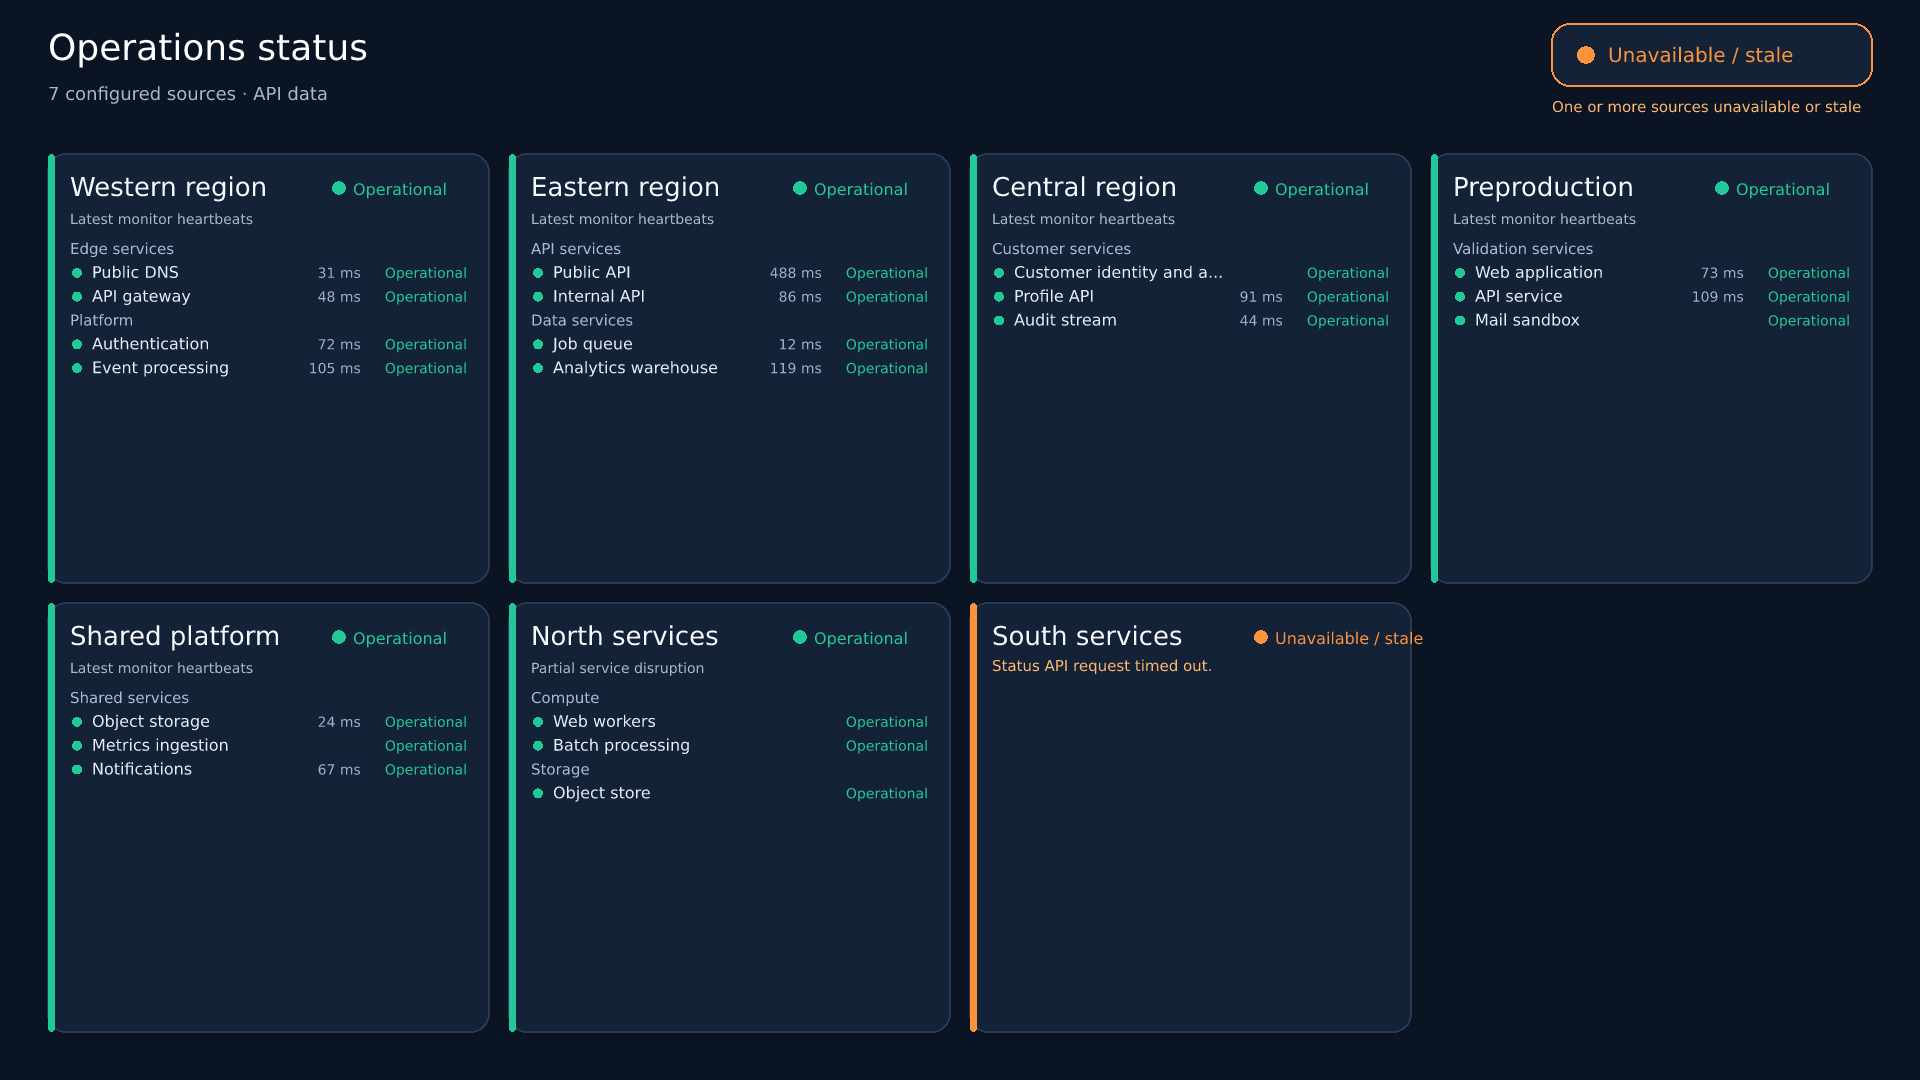
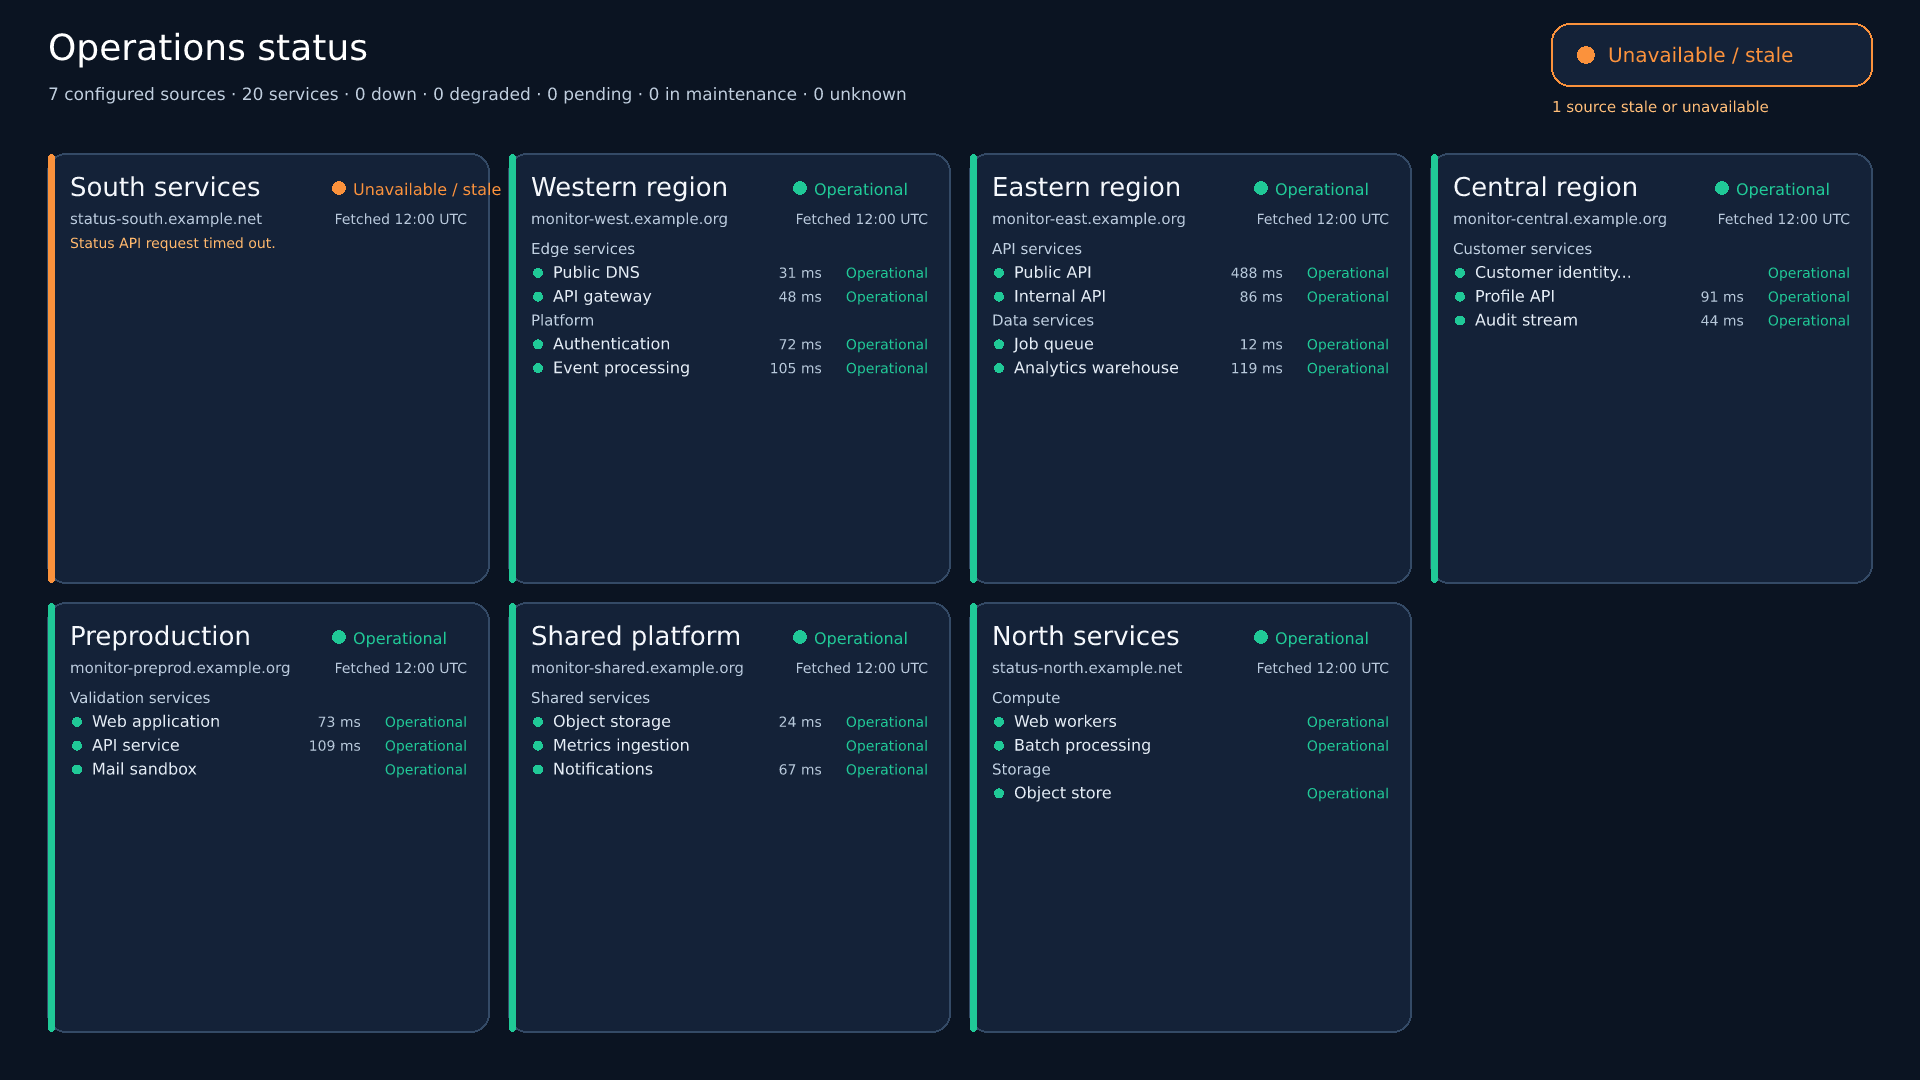
Improve captured API status dashboard UI

diff --git a/workers/device-sync/src/api-dashboard/render.ts b/workers/device-sync/src/api-dashboard/render.ts
@@ -1,5 +1,6 @@
 import { Resvg, initWasm } from "@resvg/resvg-wasm";
 import { healthLabel, overallHealth, type DashboardSource, type Health } from "./model.ts";
+import { svgPanel, svgServiceRow, svgStatusBadge, svgStatusDot, svgText, truncateText } from "./render-components.ts";
 
 const MAX_PIXELS = 3840 * 2160;
 const MAX_PNG_BYTES = 32 * 1024 * 1024;
@@ -9,8 +10,15 @@ const colors: Record<Health, string> = {
   pending: "#60a5fa", unknown: "#94a3b8", stale: "#fb923c",
 };
 
-function esc(text: string) { return text.replace(/[&<>"']/g, (char) => ({ "&": "&amp;", "<": "&lt;", ">": "&gt;", '"': "&quot;", "'": "&apos;" })[char]!); }
-function short(text: string, max: number) { return text.length > max ? `${text.slice(0, Math.max(0, max - 3))}...` : text; }
+function healthOrder(health: Health): number {
+  return ({ down: 0, degraded: 1, stale: 2, pending: 3, unknown: 4, maintenance: 5, operational: 6 })[health];
+}
+
+function formatFetched(value: string): string | undefined {
+  const date = new Date(value);
+  if (!Number.isFinite(date.getTime())) return undefined;
+  return `Fetched ${date.toISOString().slice(11, 16)} UTC`;
+}
 
 function sourceHealth(source: DashboardSource): Health {
   if (source.disabled) return "unknown";
@@ -31,7 +39,7 @@ function card(source: DashboardSource, x: number, y: number, width: number, heig
   const pad = s(22);
   const left = x + pad;
   const compact = height < s(170);
-  const contentY = y + s(compact ? 0 : 100);
+  const contentY = y + s(compact ? 0 : source.error ? 120 : 100);
   const lineH = s(compact ? 18 : Math.max(20, Math.min(24, height / 18)));
   const parentGroups = (source.groups ?? source.components.filter((component) => component.isGroup).map((component) => ({ id: component.id, name: component.name, order: component.groupOrder ?? component.componentOrder ?? 0 })))
     .sort((a, b) => a.order - b.order);
@@ -41,14 +49,14 @@ function card(source: DashboardSource, x: number, y: number, width: number, heig
   if (parentGroups.length) {
     for (const parent of parentGroups) {
       const children = services.filter((component) => component.groupId === parent.id || (!component.groupId && component.groupName === parent.name))
-        .sort((a, b) => (a.componentOrder ?? 0) - (b.componentOrder ?? 0));
+        .sort((a, b) => healthOrder(a.status) - healthOrder(b.status) || (a.componentOrder ?? 0) - (b.componentOrder ?? 0));
       serviceRows.push({ kind: "group", name: parent.name });
       if (!children.length) serviceRows.push({ kind: "empty", name: parent.name });
       for (const component of children) { serviceRows.push({ kind: "service", component }); seenServices.add(component.id); }
     }
   }
   const remaining = services.filter((component) => !seenServices.has(component.id))
-    .sort((a, b) => (a.groupOrder ?? 0) - (b.groupOrder ?? 0) || (a.componentOrder ?? 0) - (b.componentOrder ?? 0));
+    .sort((a, b) => (a.groupOrder ?? 0) - (b.groupOrder ?? 0) || healthOrder(a.status) - healthOrder(b.status) || (a.componentOrder ?? 0) - (b.componentOrder ?? 0));
   const groups = new Map<string, typeof remaining>();
   for (const component of remaining) {
     const name = component.groupName ?? "Services";
@@ -61,28 +69,30 @@ function card(source: DashboardSource, x: number, y: number, width: number, heig
   }
   const events = [...source.incidents.map((item) => `Incident (${item.status}, ${item.impact}): ${item.name}`), ...source.maintenance.map((item) => `Maintenance (${item.status}): ${item.name}`)];
   const footerRows = (serviceRows.some((row) => row.kind === "service" || row.kind === "empty") ? 1 : 0) + (events.length ? 1 : 0);
-  const maxLines = Math.max(0, Math.floor((height - s(compact ? 58 : 150) - s(footerRows * 20)) / lineH));
+  const maxLines = Math.max(0, Math.floor((height - s(compact ? 58 : source.error ? 170 : 150) - s(footerRows * 20)) / lineH));
   const showRows = serviceRows.slice(0, maxLines);
   while (showRows.at(-1)?.kind === "group") showRows.pop();
   const visibleServices = showRows.filter((row) => row.kind === "service").length;
   const hiddenServices = Math.max(0, services.length - visibleServices);
   const hiddenGroups = Math.max(0, serviceRows.filter((row) => row.kind === "group").length - showRows.filter((row) => row.kind === "group").length);
-  let svg = `<g><rect x="${x}" y="${y}" width="${width}" height="${height}" rx="${s(18)}" fill="#142238" stroke="#283951" stroke-width="${s(2)}"/>`;
-  svg += `<rect x="${x}" y="${y}" width="${s(7)}" height="${height}" rx="${s(4)}" fill="${colors[health]}"/>`;
-  svg += `<text x="${left}" y="${y + s(compact ? 25 : 42)}" fill="#f5f8fc" font-size="${s(compact ? 17 : 26)}" font-weight="700">${esc(short(source.displayName, Math.floor((width - s(185)) / s(compact ? 10 : 17))))}</text>`;
-  svg += `<circle cx="${x + width - s(150)}" cy="${y + s(compact ? 20 : 34)}" r="${s(7)}" fill="${colors[health]}"/>`;
+  let svg = `<g>${svgPanel(x, y, width, height, scale, colors[health])}`;
+  svg += `<text x="${left}" y="${y + s(compact ? 25 : 42)}" fill="#f5f8fc" font-size="${s(compact ? 17 : 26)}" font-weight="700">${svgText(truncateText(source.displayName, Math.floor((width - s(185)) / s(compact ? 10 : 17))))}</text>`;
+  svg += svgStatusDot(x + width - s(150), y + s(compact ? 20 : 34), s(7), colors[health]);
   const sourceStatusLabel = source.disabled ? "Disabled" : healthLabel[health];
-  svg += `<text x="${x + width - s(136)}" y="${y + s(compact ? 26 : 41)}" fill="${colors[health]}" font-size="${s(compact ? 13 : 16)}">${esc(sourceStatusLabel)}</text>`;
+  svg += `<text x="${x + width - s(136)}" y="${y + s(compact ? 26 : 41)}" fill="${colors[health]}" font-size="${s(compact ? 13 : 16)}">${svgText(sourceStatusLabel)}</text>`;
   if (!compact) {
-    if (source.error) svg += `<text x="${left}" y="${y + s(68)}" fill="#ffb86c" font-size="${s(15)}">${esc(short(source.error, Math.floor(width / s(9))))}</text>`;
-    else svg += `<text x="${left}" y="${y + s(70)}" fill="#aab8ca" font-size="${s(14)}">${esc(short(source.statusDescription, Math.floor(width / s(9))))}</text>`;
+    const sourceIdentity = source.hostname ?? (source.provider === "uptime-kuma" ? "Uptime Kuma" : "Statuspage");
+    const updated = formatFetched(source.fetchedAt);
+    svg += `<text x="${left}" y="${y + s(70)}" fill="#b9c9dc" font-size="${s(15)}">${svgText(truncateText(sourceIdentity, Math.floor(width / s(10))))}</text>`;
+    if (updated) svg += `<text x="${x + width - pad}" y="${y + s(70)}" text-anchor="end" fill="#b9c9dc" font-size="${s(14)}">${svgText(updated)}</text>`;
+    if (source.error) svg += `<text x="${left}" y="${y + s(94)}" fill="#ffb86c" font-size="${s(14)}">${svgText(truncateText(source.error, Math.floor(width / s(9))))}</text>`;
   }
   if (source.disabled) svg += `<text x="${left}" y="${y + s(compact ? 48 : 106)}" fill="#aab8ca" font-size="${s(17)}">Source is disabled and not polled</text>`;
   else if (!services.length && !source.error && !parentGroups.length) svg += `<text x="${left}" y="${y + s(compact ? 48 : 106)}" fill="#aab8ca" font-size="${s(17)}">No component data available</text>`;
   showRows.forEach((row, index) => {
     const cy = contentY + index * lineH;
     if (row.kind === "group") {
-      svg += `<text x="${left}" y="${cy}" fill="#a9bdd4" font-size="${s(compact ? 12 : 15)}" font-weight="700">${esc(short(row.name, Math.floor(width / s(10))))}</text>`;
+      svg += `<text x="${left}" y="${cy}" fill="#c1d1e2" font-size="${s(compact ? 12 : 15)}" font-weight="700">${svgText(truncateText(row.name, Math.floor(width / s(10))))}</text>`;
       return;
     }
     if (row.kind === "empty") {
@@ -93,20 +103,16 @@ function card(source: DashboardSource, x: number, y: number, width: number, heig
     const color = colors[status as Health] ?? colors.unknown;
     const statusText = healthLabel[status as Health] ?? healthLabel.unknown;
     const right = x + width - pad;
-    const statusWidth = s(Math.min(statusText.length * (compact ? 6 : 8.2) + 8, width * .32));
-    svg += `<circle cx="${left + s(7)}" cy="${cy - s(5)}" r="${s(5)}" fill="${color}"/>`;
-    svg += `<text x="${left + s(22)}" y="${cy}" fill="#e5edf6" font-size="${s(compact ? 12 : 16)}">${esc(short(name, Math.max(8, Math.floor((width - s(220)) / s(8.5)))))}</text>`;
-    if (latencyMs !== undefined && !compact) svg += `<text x="${right - statusWidth - s(8)}" y="${cy}" text-anchor="end" fill="#9db0c5" font-size="${s(14)}">${esc(`${Math.round(latencyMs)} ms`)}</text>`;
-    svg += `<text x="${right}" y="${cy}" text-anchor="end" fill="${color}" font-size="${s(compact ? 11 : 14)}">${esc(statusText)}</text>`;
+    svg += svgServiceRow({ x: left, y: cy, right, scale, name, status: statusText, color, latencyMs, compact });
   });
   if (hiddenServices || hiddenGroups) {
     const message = [hiddenGroups ? `${hiddenGroups} more groups` : "", hiddenServices ? `${hiddenServices} more services` : ""].filter(Boolean).join(" · ");
-    svg += `<text x="${left}" y="${y + height - s(events.length ? 36 : 18)}" fill="#9db0c5" font-size="${s(compact ? 10 : 13)}">+ ${esc(message)}</text>`;
+    svg += `<text x="${left}" y="${y + height - s(events.length ? 36 : 18)}" fill="#b7c8da" font-size="${s(compact ? 10 : 13)}">+ ${svgText(message)}</text>`;
   }
   if (events.length) {
     const suffix = events.length > 1 ? ` · +${events.length - 1} more active events` : "";
-    const first = short(events[0], Math.max(8, Math.floor(width / s(compact ? 7 : 8)) - suffix.length));
-    svg += `<text x="${left}" y="${y + height - s(compact ? 8 : 18)}" fill="#ffc46b" font-size="${s(compact ? 10 : 13)}">${esc(first + suffix)}</text>`;
+    const first = truncateText(events[0], Math.max(8, Math.floor(width / s(compact ? 7 : 8)) - suffix.length));
+    svg += `<text x="${left}" y="${y + height - s(compact ? 8 : 18)}" fill="#ffd082" font-size="${s(compact ? 10 : 13)}">${svgText(first + suffix)}</text>`;
   }
   svg += "</g>";
   return svg;
@@ -120,19 +126,27 @@ export function dashboardSVG(sources: DashboardSource[], width = 1920, height = 
   const pad = 48 * scale;
   const gap = 20 * scale;
   const headerH = 154 * scale;
-  const columns = Math.min(4, Math.max(1, Math.floor((width - 2 * pad + gap) / 430)));
+  const columns = Math.min(sources.length || 1, 4, Math.max(1, Math.floor((width - 2 * pad + gap) / 430)));
   const cardW = (width - 2 * pad - gap * (columns - 1)) / columns;
   const rows = Math.ceil(sources.length / columns);
   const cardH = (height - headerH - pad - gap * Math.max(0, rows - 1)) / Math.max(rows, 1);
   const overall = overallHealth(sources);
-  const anyIssue = sources.some((source) => !source.disabled && source.freshness !== "fresh");
+  const activeSources = sources.filter((source) => !source.disabled);
+  const totalServices = activeSources.reduce((sum, source) => sum + source.components.filter((component) => !component.isGroup).length, 0);
+  const downServices = activeSources.reduce((sum, source) => sum + source.components.filter((component) => !component.isGroup && component.status === "down").length, 0);
+  const degradedServices = activeSources.reduce((sum, source) => sum + source.components.filter((component) => !component.isGroup && component.status === "degraded").length, 0);
+  const maintenanceServices = activeSources.reduce((sum, source) => sum + source.components.filter((component) => !component.isGroup && component.status === "maintenance").length, 0);
+  const pendingServices = activeSources.reduce((sum, source) => sum + source.components.filter((component) => !component.isGroup && component.status === "pending").length, 0);
+  const unknownServices = activeSources.reduce((sum, source) => sum + source.components.filter((component) => !component.isGroup && component.status === "unknown").length, 0);
+  const staleSources = activeSources.filter((source) => source.freshness !== "fresh").length;
   let svg = `<svg xmlns="http://www.w3.org/2000/svg" width="${width}" height="${height}" viewBox="0 0 ${width} ${height}"><rect width="100%" height="100%" fill="#0b1422"/>`;
   svg += `<text x="${pad}" y="${60 * scale}" fill="#ffffff" font-family="Ribbon Sans" font-size="${36 * scale}" font-weight="700">Operations status</text>`;
-  svg += `<text x="${pad}" y="${100 * scale}" fill="#a8b8cb" font-family="Ribbon Sans" font-size="${18 * scale}">${sources.length} configured sources · API data</text>`;
-  svg += `<rect x="${width - pad - 320 * scale}" y="${24 * scale}" width="${320 * scale}" height="${62 * scale}" rx="${18 * scale}" fill="#142238" stroke="${colors[overall]}" stroke-width="${2 * scale}"/>`;
-  svg += `<circle cx="${width - pad - 286 * scale}" cy="${55 * scale}" r="${9 * scale}" fill="${colors[overall]}"/><text x="${width - pad - 264 * scale}" y="${62 * scale}" fill="${colors[overall]}" font-family="Ribbon Sans" font-size="${20 * scale}" font-weight="700">${esc(healthLabel[overall])}</text>`;
-  if (anyIssue) svg += `<text x="${width - pad - 320 * scale}" y="${112 * scale}" fill="#ffb86c" font-family="Ribbon Sans" font-size="${15 * scale}">One or more sources unavailable or stale</text>`;
-  sources.forEach((source, index) => {
+  const summary = `${sources.length} configured ${sources.length === 1 ? "source" : "sources"} · ${totalServices} ${totalServices === 1 ? "service" : "services"} · ${downServices} down · ${degradedServices} degraded · ${pendingServices} pending · ${maintenanceServices} in maintenance · ${unknownServices} unknown`;
+  svg += `<text x="${pad}" y="${100 * scale}" fill="#c0cede" font-family="Ribbon Sans" font-size="${17 * scale}">${svgText(summary)}</text>`;
+  svg += svgStatusBadge(width - pad - 320 * scale, 24 * scale, 320 * scale, 62 * scale, scale, healthLabel[overall], colors[overall]);
+  if (staleSources) svg += `<text x="${width - pad - 320 * scale}" y="${112 * scale}" fill="#ffbd78" font-family="Ribbon Sans" font-size="${15 * scale}" font-weight="700">${staleSources} source${staleSources === 1 ? "" : "s"} stale or unavailable</text>`;
+  if (!sources.length) svg += `<text x="${pad}" y="${(headerH + 45 * scale)}" fill="#c0cede" font-family="Ribbon Sans" font-size="${20 * scale}">No status sources are configured.</text>`;
+  [...sources].sort((a, b) => healthOrder(sourceHealth(a)) - healthOrder(sourceHealth(b))).forEach((source, index) => {
     const col = index % columns;
     const row = Math.floor(index / columns);
     svg += card(source, pad + col * (cardW + gap), headerH + row * (cardH + gap), cardW, cardH, scale);

diff --git a/workers/device-sync/src/api-dashboard/render.test.ts b/workers/device-sync/src/api-dashboard/render.test.ts
@@ -1,6 +1,7 @@
 import assert from "node:assert/strict";
 import { test } from "node:test";
 import { dashboardSVG, renderDashboardPNG } from "./render.ts";
+import { svgPanel, svgServiceRow, svgStatusBadge, svgStatusDot, svgText, truncateText } from "./render-components.ts";
 import type { DashboardSource } from "./model.ts";
 
 const sample: DashboardSource = { id: "source-1", provider: "uptime-kuma", displayName: "<SCRIPT>alert('x')</SCRIPT>", fetchedAt: "2026-01-01T00:00:00.000Z", freshness: "fresh", status: "operational", statusDescription: "All systems operational", incidents: [], maintenance: [], components: [
@@ -56,9 +57,46 @@ test("provider group parents render as headings instead of duplicate monitored s
 
 test("long text uses supported ASCII ellipses rather than missing font glyphs", () => {
   const longName = { ...sample, displayName: "Synthetic source name with an intentionally long label", components: [{ ...sample.components[0], name: "Synthetic service name with many details that must be shortened to fit the screen" }] };
-  const svg = dashboardSVG([longName]);
+  const svg = dashboardSVG([longName, ...Array.from({ length: 6 }, (_, index) => ({ ...sample, id: `source-${index + 2}` }))]);
   assert.match(svg, /\.\.\./);
   assert.doesNotMatch(svg, /…/);
+});
+
+test("small source sets use wide cards and identify the Kuma instance and update time", () => {
+  const kuma: DashboardSource = {
+    ...sample,
+    displayName: "Operations status",
+    hostname: "monitor-west.example.org",
+    fetchedAt: "2026-01-01T12:34:00.000Z",
+  };
+  const svg = dashboardSVG([kuma, { ...kuma, id: "source-2", displayName: "Operations status", hostname: "monitor-east.example.org" }]);
+  const cards = [...svg.matchAll(/<rect x="([\d.]+)" y="([\d.]+)" width="([\d.]+)" height="([\d.]+)" rx="[\d.]+" fill="#142238" stroke="#344a66"/g)];
+  assert.equal(cards.length, 2);
+  assert.ok(Number(cards[0][3]) > 800, "two sources should use wide cards on a 1920px canvas");
+  assert.match(svg, /monitor-west\.example\.org/);
+  assert.match(svg, /monitor-east\.example\.org/);
+  assert.match(svg, /Fetched 12:34 UTC/);
+});
+
+test("shared SVG primitives escape text and render status panels, dots, and badges", () => {
+  assert.equal(svgText("<service & 'status'>"), "&lt;service &amp; &apos;status&apos;&gt;");
+  assert.equal(truncateText("long-name", 6), "lon...");
+  assert.match(svgPanel(1, 2, 30, 40, 1, "#20c997"), /stroke="#344a66"/);
+  assert.match(svgStatusDot(4, 5, 6, "#ff647c"), /<circle cx="4" cy="5" r="6" fill="#ff647c"\/>/);
+  assert.match(svgStatusBadge(0, 0, 200, 50, 1, "Down", "#ff647c"), />Down<\/text>/);
+  assert.match(svgServiceRow({ x: 10, y: 30, right: 600, scale: 1, name: "API <edge>", status: "Down", color: "#ff647c", latencyMs: 120 }), /API &lt;edge&gt;/);
+});
+
+test("affected services appear before operational services within a group", () => {
+  const mixed: DashboardSource = {
+    ...sample,
+    components: [
+      { ...sample.components[0], id: "healthy", name: "Healthy service", status: "operational", componentOrder: 0 },
+      { ...sample.components[0], id: "failed", name: "Failed service", status: "down", componentOrder: 1 },
+    ],
+  };
+  const svg = dashboardSVG([mixed]);
+  assert.ok(svg.indexOf("Failed service") < svg.indexOf("Healthy service"));
 });
 
 test("overflow counts only omitted services and reports hidden incidents explicitly", () => {

diff --git a/workers/device-sync/src/api-dashboard/render-components.ts b/workers/device-sync/src/api-dashboard/render-components.ts
@@ -1,0 +1,31 @@
+/** Small, shared SVG components used by the captured API status dashboard. */
+export function svgText(value: string): string {
+  return value.replace(/[&<>"']/g, (char) => ({ "&": "&amp;", "<": "&lt;", ">": "&gt;", '"': "&quot;", "'": "&apos;" })[char]!);
+}
+
+export function truncateText(value: string, max: number): string {
+  return value.length > max ? `${value.slice(0, Math.max(0, max - 3))}...` : value;
+}
+
+export function svgStatusDot(cx: number, cy: number, radius: number, color: string): string {
+  return `<circle cx="${cx}" cy="${cy}" r="${radius}" fill="${color}"/>`;
+}
+
+export function svgPanel(x: number, y: number, width: number, height: number, scale: number, accentColor: string): string {
+  return `<rect x="${x}" y="${y}" width="${width}" height="${height}" rx="${18 * scale}" fill="#142238" stroke="#344a66" stroke-width="${2 * scale}"/><rect x="${x}" y="${y}" width="${7 * scale}" height="${height}" rx="${4 * scale}" fill="${accentColor}"/>`;
+}
+
+export function svgStatusBadge(x: number, y: number, width: number, height: number, scale: number, label: string, color: string): string {
+  return `<rect x="${x}" y="${y}" width="${width}" height="${height}" rx="${18 * scale}" fill="#142238" stroke="${color}" stroke-width="${2 * scale}"/>${svgStatusDot(x + 34 * scale, y + height / 2, 9 * scale, color)}<text x="${x + 56 * scale}" y="${y + height / 2 + 7 * scale}" fill="${color}" font-family="Ribbon Sans" font-size="${20 * scale}" font-weight="700">${svgText(label)}</text>`;
+}
+
+export function svgServiceRow(input: { x: number; y: number; right: number; scale: number; name: string; status: string; color: string; latencyMs?: number; compact?: boolean }): string {
+  const { x, y, right, scale, name, status, color, latencyMs, compact = false } = input;
+  const statusWidth = scale * Math.min(status.length * (compact ? 6 : 8.2) + 8, (right - x) * .32);
+  const maxName = Math.max(8, Math.floor((right - x - scale * 220) / (scale * 8.5)));
+  let row = svgStatusDot(x + scale * 7, y - scale * 5, scale * 5, color);
+  row += `<text x="${x + scale * 22}" y="${y}" fill="#e5edf6" font-size="${scale * (compact ? 12 : 16)}">${svgText(truncateText(name, maxName))}</text>`;
+  if (latencyMs !== undefined && !compact) row += `<text x="${right - statusWidth - scale * 8}" y="${y}" text-anchor="end" fill="#b7c8da" font-size="${scale * 14}">${svgText(`${Math.round(latencyMs)} ms`)}</text>`;
+  row += `<text x="${right}" y="${y}" text-anchor="end" fill="${color}" font-size="${scale * (compact ? 11 : 14)}" font-weight="700">${svgText(status)}</text>`;
+  return row;
+}
